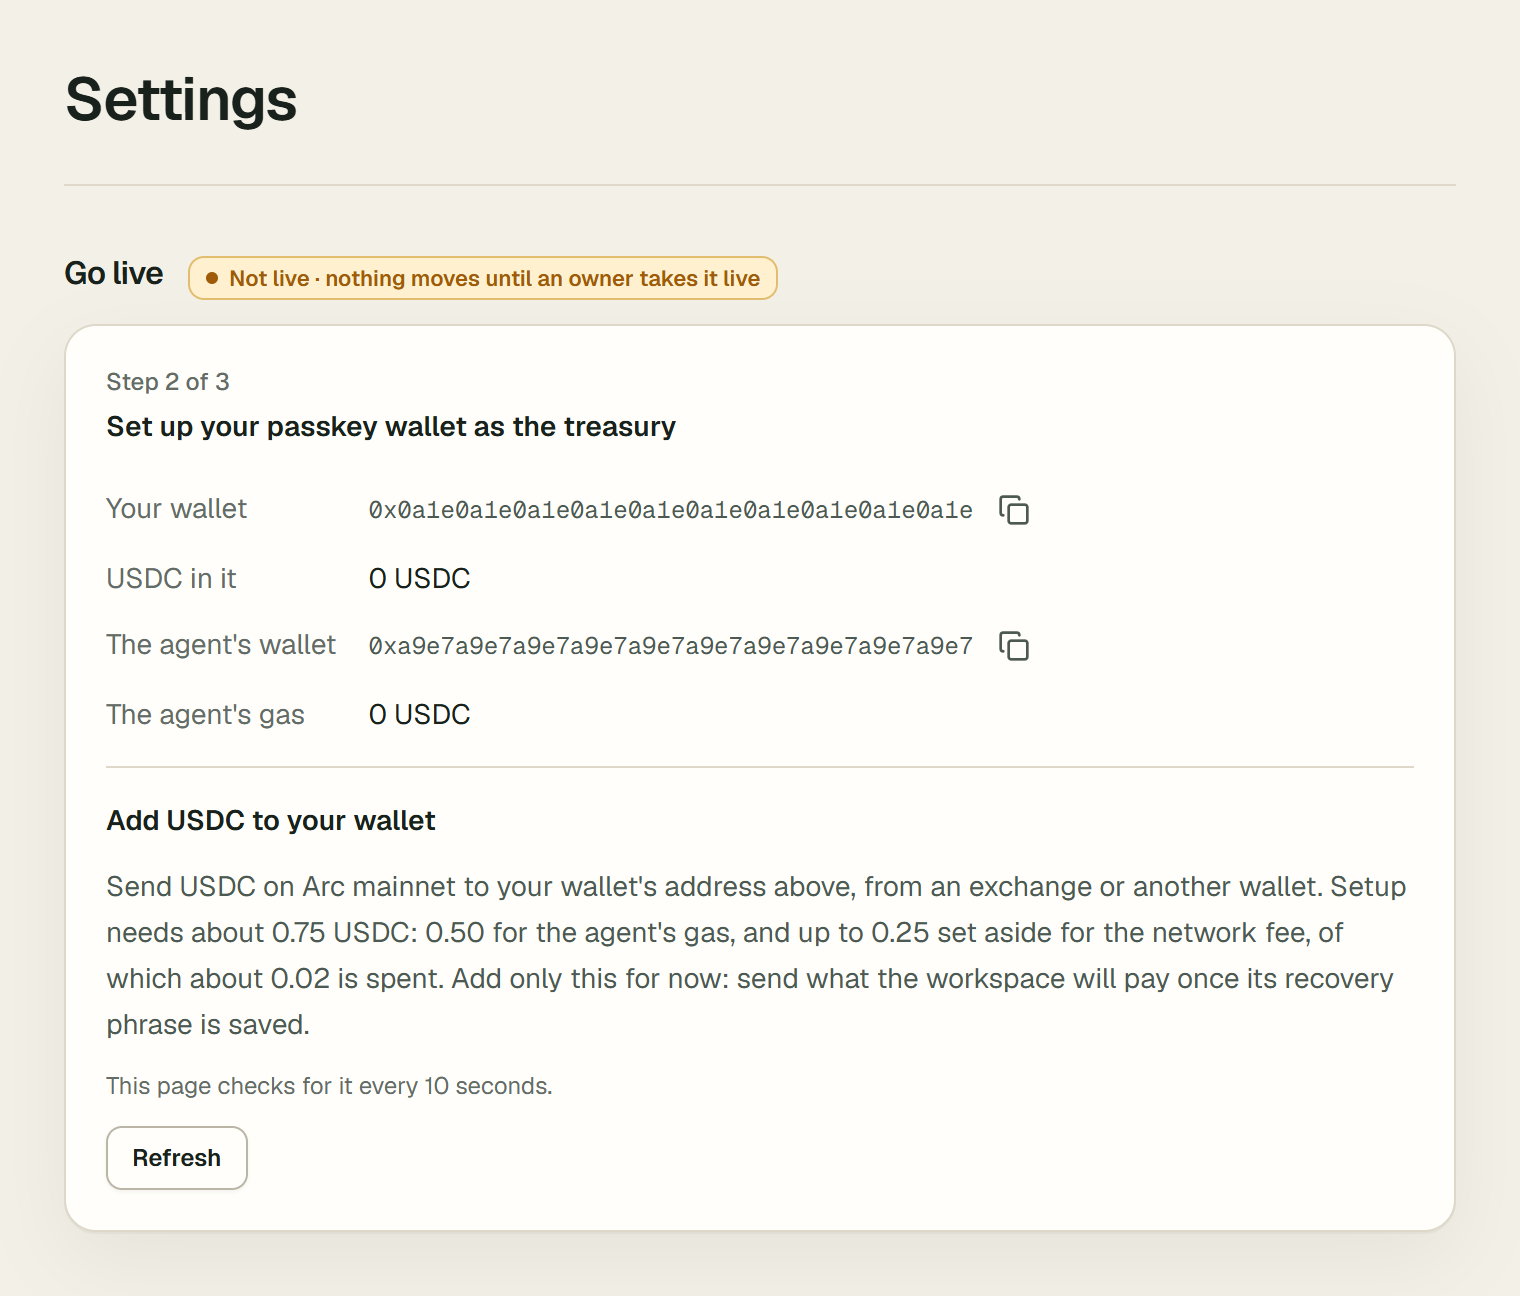
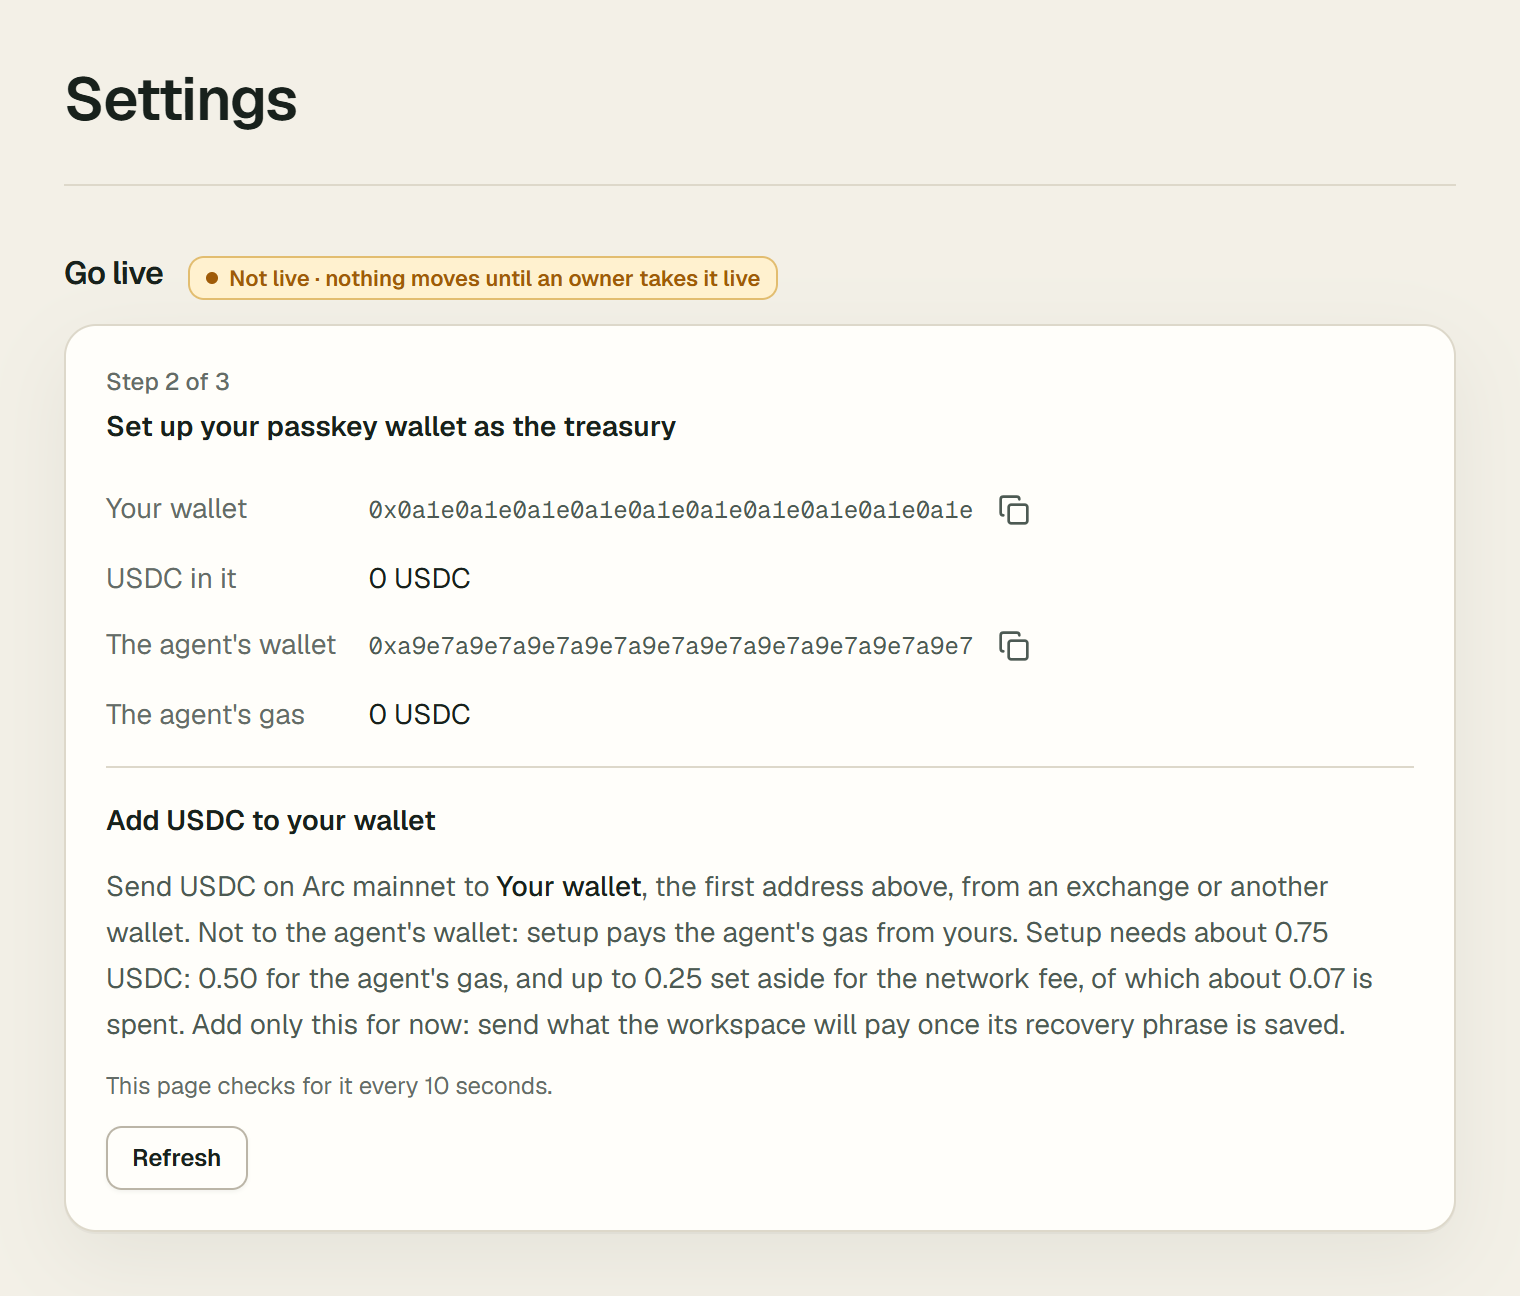
Say which address to fund and what the passkey setup costs
The first live passkey setup on Arc mainnet spent 0.071 USDC of the
0.146 set aside, not the 0.02 the page quoted, and the owner had to ask
which of the two addresses to send USDC to. The funding step now names
Your wallet and says not to send to the agent's wallet; both steps and
the guide quote about 0.07.

Changed region(s): [[0.0618, 0.679, 0.9276, 0.8025]]

diff --git a/src/components/treasury/PasskeyTreasurySteps.tsx b/src/components/treasury/PasskeyTreasurySteps.tsx
@@ -243,8 +243,9 @@ function FundStep({ status, label }: { status: WalletTreasuryStatus; label: stri
     <>
       <h3 className="text-sm font-semibold text-ink">Add USDC to your wallet</h3>
       <p className="text-sm leading-relaxed text-ink-2">
-        Send USDC on {label} to your wallet&apos;s address above, from an exchange or another wallet. Setup needs about {status.setupNeedsUsdc.toFixed(2)} USDC:
-        0.50 for the agent&apos;s gas, and up to 0.25 set aside for the network fee, of which about 0.02 is spent. Add only this for now: send what the
+        Send USDC on {label} to <strong className="font-medium text-ink">Your wallet</strong>, the first address above, from an exchange or another
+        wallet. Not to the agent&apos;s wallet: setup pays the agent&apos;s gas from yours. Setup needs about {status.setupNeedsUsdc.toFixed(2)} USDC:
+        0.50 for the agent&apos;s gas, and up to 0.25 set aside for the network fee, of which about 0.07 is spent. Add only this for now: send what the
         workspace will pay once its recovery phrase is saved.
       </p>
       <p className="text-xs text-ink-3">This page checks for it every 10 seconds.</p>
@@ -367,7 +368,7 @@ function SetupStep({ orgSlug, status, label }: { orgSlug: string; status: Wallet
       <Field id="passkey-treasury-cap" label="Cap (USDC)" description="Empty approves without a cap; the figures still bound each day and 7 days." optional>
         <Input id="passkey-treasury-cap" inputMode="decimal" value={cap} onChange={(event) => setCap(event.target.value)} />
       </Field>
-      <p className="text-xs text-ink-3">The network fee is paid from your wallet&apos;s USDC: about 0.02 USDC.</p>
+      <p className="text-xs text-ink-3">The network fee is paid from your wallet&apos;s USDC: about 0.07 USDC.</p>
       <div>
         <Button type="button" icon={<KeyRound />} loading={busy} onClick={setUp}>
           Set up with your passkey

diff --git a/tests/go-live-panel.test.tsx b/tests/go-live-panel.test.tsx
@@ -587,7 +587,12 @@ describe("GoLivePanel and the owner's own wallet (wallet treasury W1, W5-W10)", 
       expect(words).toContain("Step 2 of 3");
       expect(words).toContain("Add USDC to your wallet");
       expect(words).toContain(WALLET);
-      expect(words).toContain("Setup needs about 0.75 USDC: 0.50 for the agent's gas, and up to 0.25 set aside for the network fee, of which about 0.02 is spent.");
+      // Named, and not the agent's: the partner asked which of the two addresses to send to (2026-10-07).
+      expect(words).toContain("Send USDC on Arc mainnet to Your wallet");
+      expect(words).toContain("the first address above, from an exchange or another wallet.");
+      expect(words).toContain("Not to the agent's wallet: setup pays the agent's gas from yours.");
+      // The first live setup spent 0.071 USDC of the 0.146 set aside (2026-10-07).
+      expect(words).toContain("Setup needs about 0.75 USDC: 0.50 for the agent's gas, and up to 0.25 set aside for the network fee, of which about 0.07 is spent.");
       // Only the setup until the recovery phrase is saved (final review I5).
       expect(words).toContain("Add only this for now");
       expect(words).not.toContain("Set up with your passkey");
@@ -605,6 +610,7 @@ describe("GoLivePanel and the owner's own wallet (wallet treasury W1, W5-W10)", 
       expect(words).toContain("Daily figure (USDC)");
       expect(words).toContain("Cap (USDC)");
       expect(words).toContain("Set up with your passkey");
+      expect(words).toContain("The network fee is paid from your wallet's USDC: about 0.07 USDC.");
       expect(words).not.toContain("Deploy from your wallet");
     });
 

diff --git a/src/lib/treasury/wallet-treasury.ts b/src/lib/treasury/wallet-treasury.ts
@@ -34,8 +34,8 @@ export type TreasurySigner = "wallet" | "passkey";
 
 /**
  * What a passkey wallet needs before its setup (K5): 0.50 USDC for the agent's gas, and 0.25 for the first user
- * operation's fee. EntryPoint v0.7 sets the whole fee aside before the calls run, about 0.11 USDC at Arc's fees on
- * 2026-10-07 for a wallet not yet deployed; about 0.02 is spent and the rest stays the wallet's (final review I2).
+ * operation's fee. EntryPoint v0.7 sets the whole fee aside before the calls run: the first live setup, on 2026-10-07,
+ * set aside 0.146 USDC and spent 0.071 of it, and the rest stays the wallet's for its next operations (final review I2).
  */
 export const PASSKEY_SETUP_USDC = 0.75;
 

diff --git a/docs/superpowers/specs/2026-10-07-passkey-treasury-design.md b/docs/superpowers/specs/2026-10-07-passkey-treasury-design.md
@@ -73,7 +73,7 @@ The passkey route:
 - **K5. Setup waits for the wallet's USDC.**
   - Below what setup needs, the passkey route shows the address (with a copy button), the wallet's USDC, and what
     setup needs: 0.75 USDC, 0.50 for the agent's gas and up to 0.25 for the first user operation's fee, which EntryPoint
-    v0.7 sets aside before the calls run (about 0.11 at Arc's fees on 2026-10-07; about 0.02 is spent). Only this is
+    v0.7 sets aside before the calls run (the first live setup, on 2026-10-07, set aside 0.146 and spent 0.071). Only this is
     asked for until the recovery phrase is saved.
   - The page reads the balance again every 10 seconds while open, and when the tab is shown again.
   - The owner's own payments come on top: the page says so.
